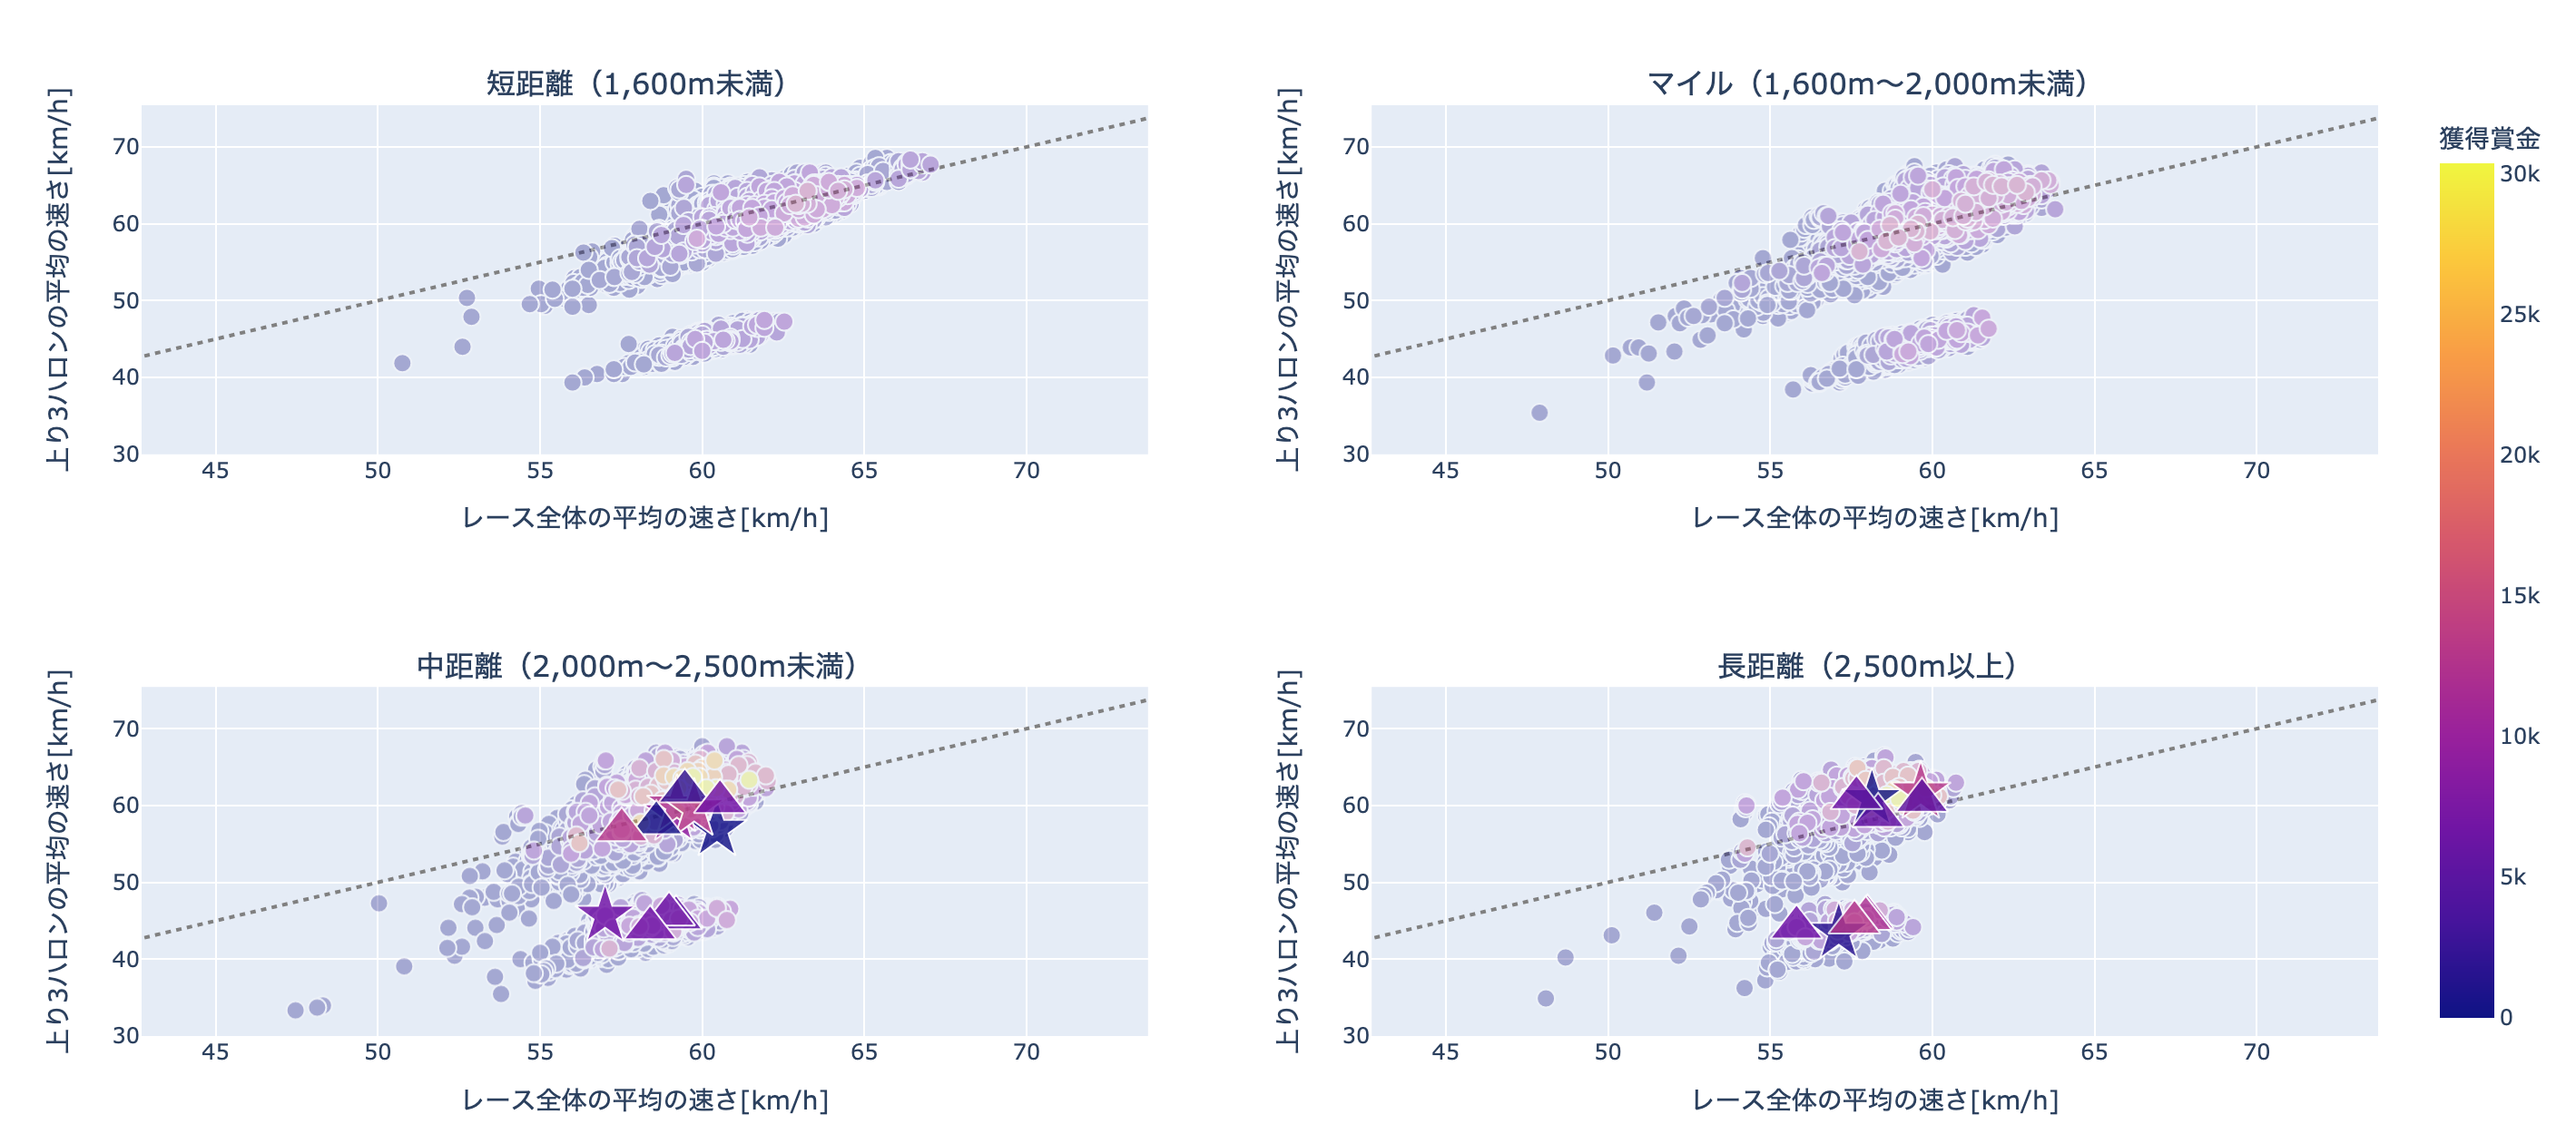
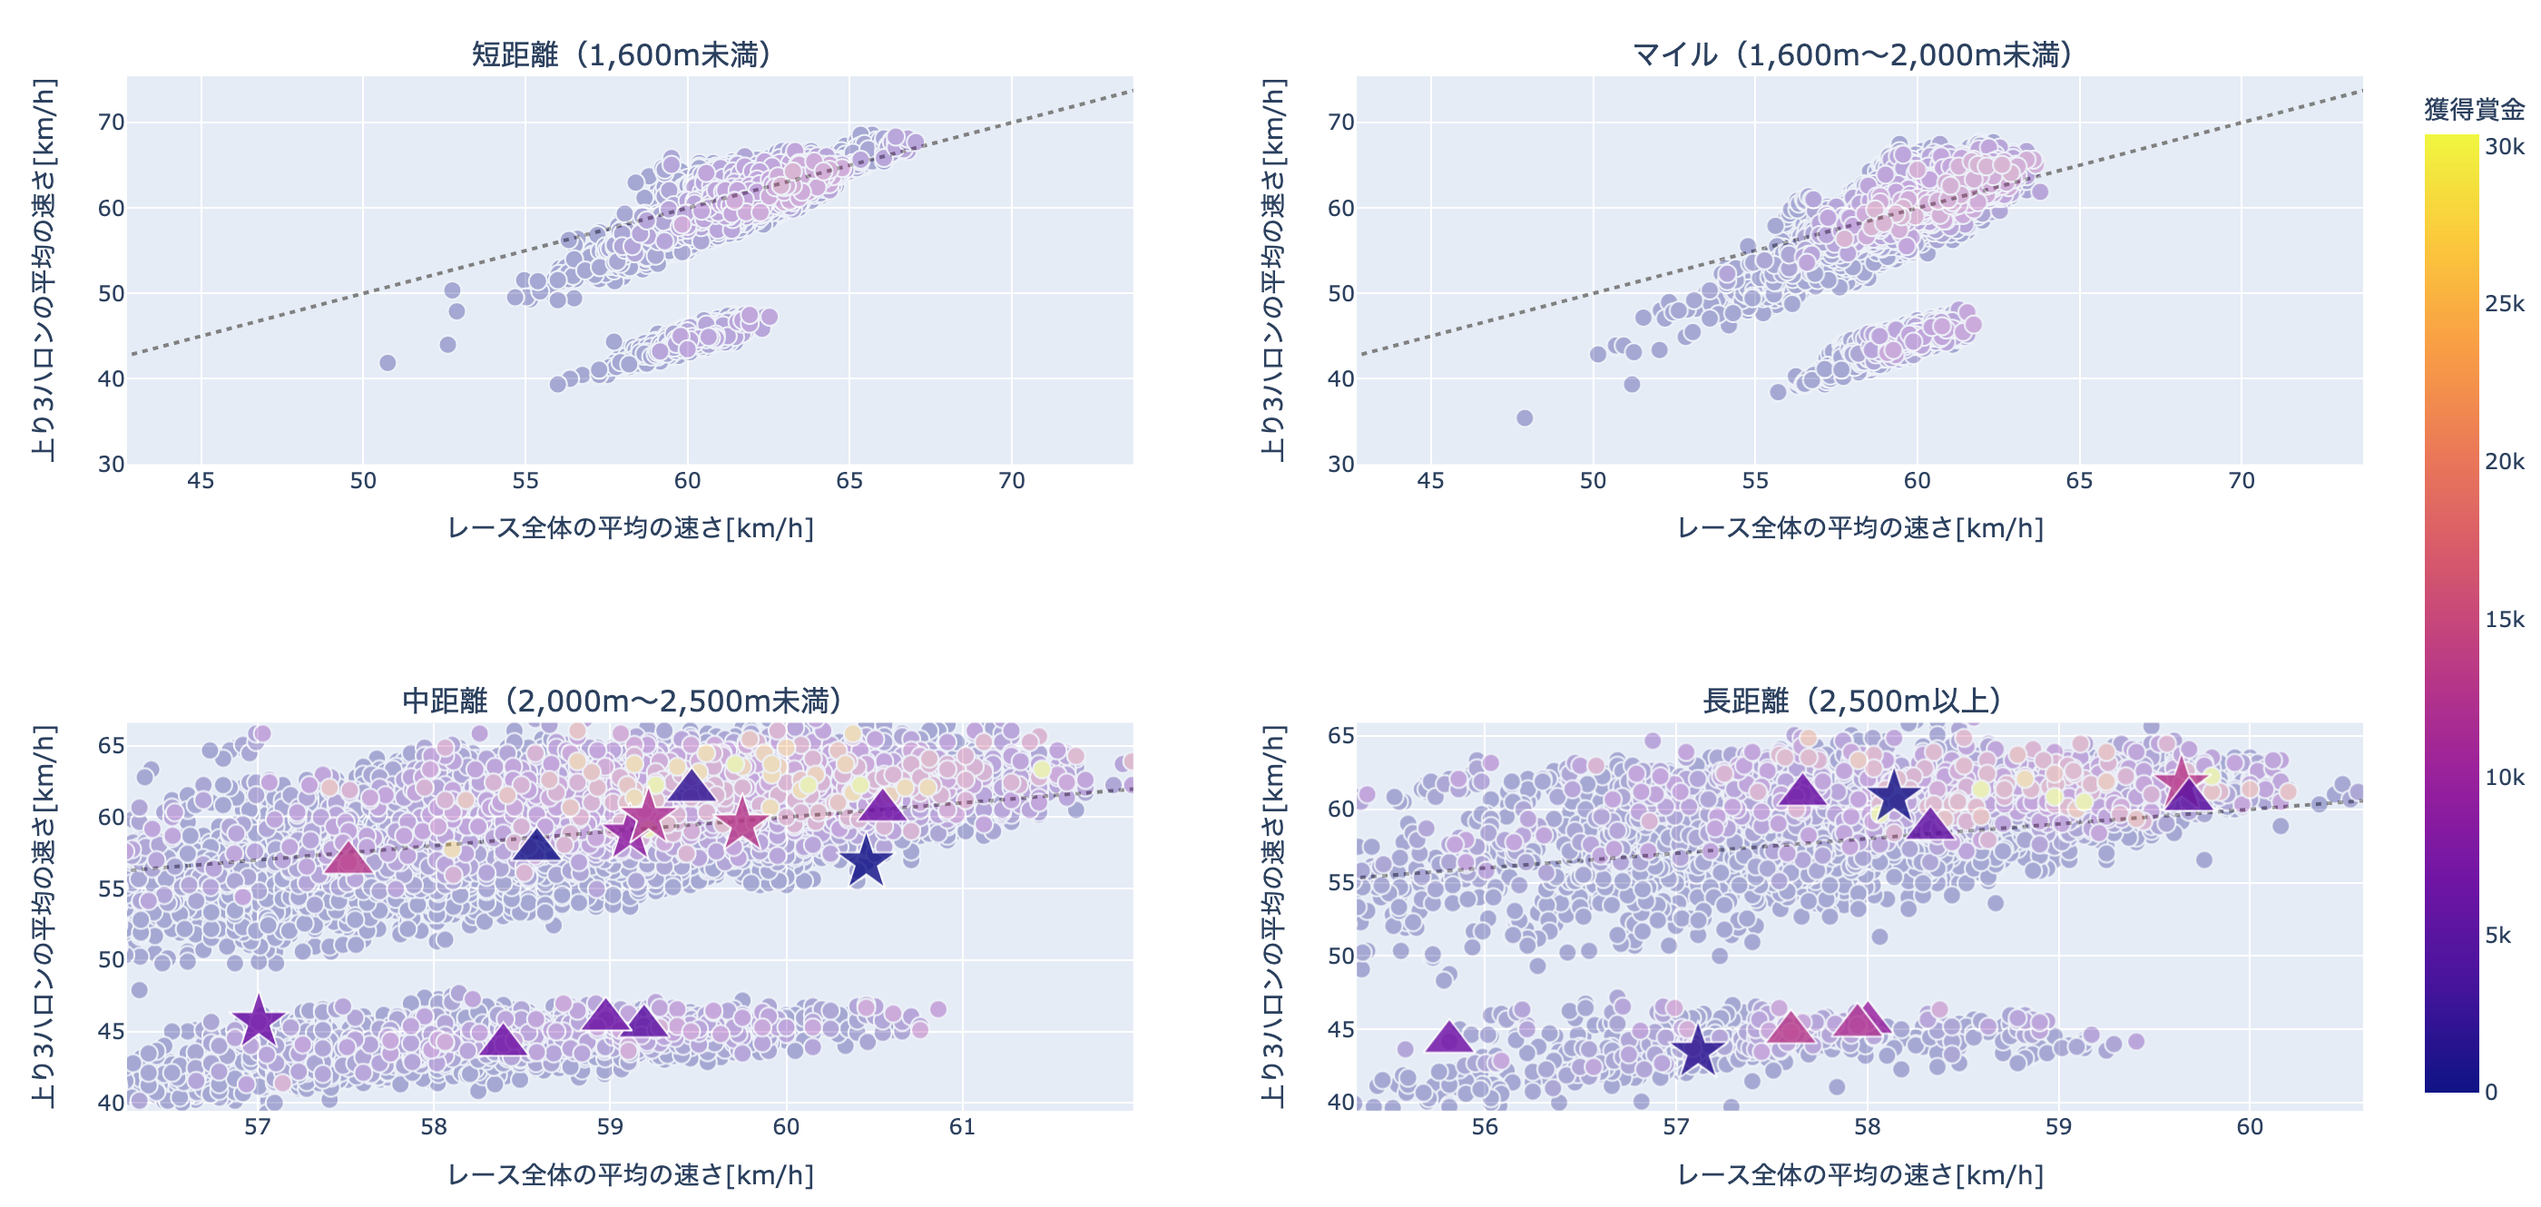
一通り記載完了

diff --git a/articles/2021-11-keiba-scatter.md b/articles/2021-11-keiba-scatter.md
@@ -717,7 +717,7 @@ https://github.com/kakeami/keiba-eda-public/tree/master/figs/scatters
 
 マーカーの色は**獲得賞金**を表します．獲得賞金が高いほど明るい黄色になります．どのような距離適性・脚質適性の競走馬が稼いでいるか直感的に眺めることが狙いです．
 
-補助線として，灰色の破線で直線$y=x$をプロットしました．ざっくり言うと，**この破線より上側に位置する競走馬は上り3ハロンが他の区間より速く**，**下側に位置する競走馬はその逆**を表します．競走馬の脚質適性などと比較すると面白そうですね．
+補助線として，灰色の破線で$y=x$をプロットしました．ざっくり言うと，**この破線より上側に位置する競走馬は上り3ハロンが他の区間より速く**，**下側に位置する競走馬はその逆**を表します．脚質適性などと比較すると面白そうですね．
 
 明るい黄色のマーカーのほとんどが明るい破線より上側に存在することがわかります．やはり日本競馬においては，上りをいかに速く走るかが重要なテーマのようです．
 
@@ -786,22 +786,34 @@ ums_vs = [
 
 https://github.com/kakeami/keiba-eda-public/tree/master/figs/scatters/vs
 
-とりあえず[トウカイテイオーとメジロマックイーンの結果](https://github.com/kakeami/keiba-eda-public/blob/master/figs/scatters/vs/scatter_%E3%83%88%E3%82%A6%E3%82%AB%E3%82%A4%E3%83%86%E3%82%A4%E3%82%AA%E3%83%BC_%E3%83%A1%E3%82%B8%E3%83%AD%E3%83%9E%E3%83%83%E3%82%AF%E3%82%A4%E3%83%BC%E3%83%B3.html)を貼っておきます．
+例えば，[トウカイテイオーとメジロマックイーンの散布図](https://github.com/kakeami/keiba-eda-public/blob/master/figs/scatters/vs/scatter_%E3%83%88%E3%82%A6%E3%82%AB%E3%82%A4%E3%83%86%E3%82%A4%E3%82%AA%E3%83%BC_%E3%83%A1%E3%82%B8%E3%83%AD%E3%83%9E%E3%83%83%E3%82%AF%E3%82%A4%E3%83%BC%E3%83%B3.html)は下図のようになります．見やすいよう，中距離と長距離の散布図を拡大していることにご注意ください．
 
 ![](/images/2021-11-keiba-scatter/umapyoi.png)
 *トウカイテイオー（☆）とメジロマックイーン（△）*
 
 ## タイトル
 
-各タイトル毎に，入賞した競走馬の散布図を作成しました．
+タイトルごとに，入賞した競走馬の散布図を作成しました．
 
 https://github.com/kakeami/keiba-eda-public/tree/master/figs/scatters/titles
 
 ファイル名は`scatter_{グレード}_{タイトル名}.html`というフォーマットに従っています．35年間でグレードが変動したタイトルについては，全てのグレードを降順に記載しました（例：`scatter_G1_G2_G3_スプリンターズS.html`）．
 
+例えば，[有馬記念の散布図](https://github.com/kakeami/keiba-eda-public/blob/master/figs/scatters/titles/scatter_G1_%E6%9C%89%E9%A6%AC%E8%A8%98%E5%BF%B5.html)は下図のようになります．見やすいよう，長距離の散布図のみ拡大していることにご注意ください．
+
 ![](/images/2021-11-keiba-scatter/arima.png)
+*有馬記念の歴代入賞馬*
 
 ## 適性
+
+適性ごとに，それぞれ評価がAの競走馬の散布図を作成しました．
+
+https://github.com/kakeami/keiba-eda-public/tree/master/figs/scatters/indices
+
+例えば，[追い込み適性がAの競走馬の散布図](https://github.com/kakeami/keiba-eda-public/blob/master/figs/scatters/indices/scatter_%E8%BF%BD%E3%81%84%E8%BE%BC%E3%81%BF%E9%81%A9%E6%80%A7_A.html)は下図です．殆どのマーカーが補助線$y=x$より上部に位置しており，ラストスパートが速かったことが伺えます．
+
+![](/images/2021-11-keiba-scatter/oikomi.png)
+*追い込み適性Aの競走馬*
 
 # 今後の課題
 
